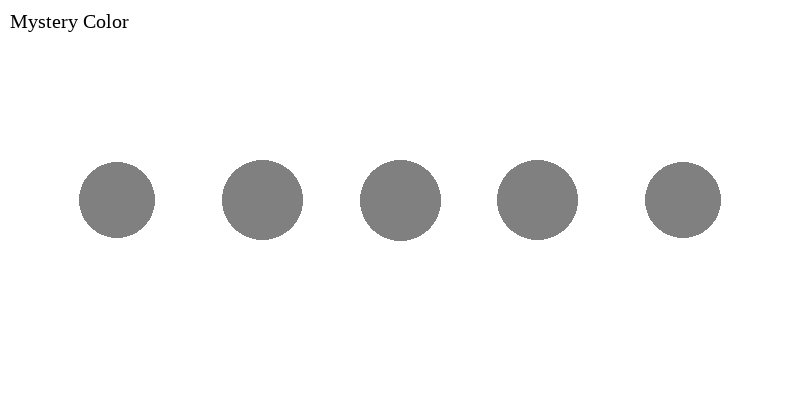
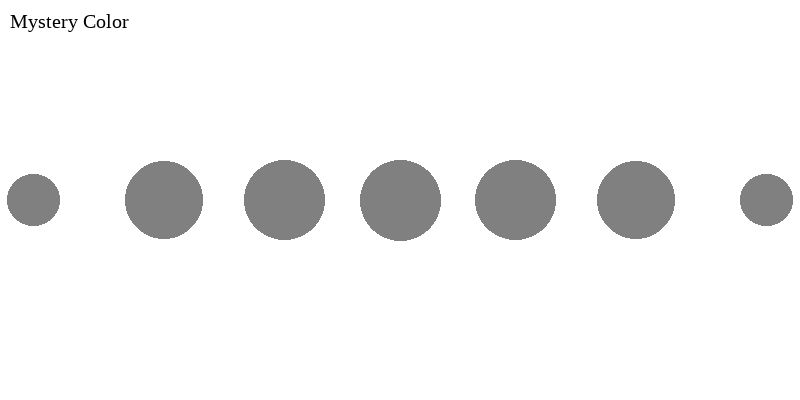
Added a blank diffraction pattern if in the incorrect room

Changed region(s): [[0.5938, 0.39, 1.0, 0.6], [0.0, 0.39, 0.4062, 0.6]]

diff --git a/main.py b/main.py
@@ -3,7 +3,7 @@ from pygame.locals import *
 
 
 from parameters import *
-from fnaf_cam import Fnaf_cam, ballBoy, diffpattmystery, colordiff
+from fnaf_cam import Fnaf_cam, ballBoy, diffpattmystery, colordiff, blankpattern
 from roombuilder import roomBuidler
 from room import Room
 from textbox import *
@@ -28,6 +28,7 @@ lens = Fnaf_cam()
 lensLight = ballBoy()
 mysterydiff = diffpattmystery()
 colorsdiff = colordiff()
+blankdiff = blankpattern()
 
 
 rooms = []
@@ -136,10 +137,12 @@ class Player(pygame.sprite.Sprite):
                 lensLight.toggle()
             self.state = "lens" if self.state == "room" else "room"
         if popup == "diffraction":
-            if self.current_room == 2:
+            if self.current_room == 2 and blankdiff.shown == False:
                 mysterydiff.toggle()
                 if colorsdiff.shown == True and mysterydiff.shown == False:
                     colorsdiff.toggle()
+            else:
+                blankdiff.toggle()
             self.state = "diffraction" if self.state == "room" else "room"
         if popup == "diffchange":
             if mysterydiff.shown == True and self.current_room == 2:
@@ -170,7 +173,7 @@ while True:
                 if event.key == K_f:
                     P1.state_toggle("lens" , K_f)
                     # print("f was pressed")
-                if event.key == K_g and P1.current_room == 2:
+                if event.key == K_g:
                     P1.state_toggle("diffraction", K_g)
                 if event.key == K_RIGHT:
                     P1.state_toggle("diffchange", K_RIGHT)
@@ -202,6 +205,7 @@ while True:
     lens.draw(DISPLAYSURF)
     mysterydiff.draw(DISPLAYSURF)
     colorsdiff.draw(DISPLAYSURF)
+    blankdiff.draw(DISPLAYSURF)
     if lens.shown==1:
         DISPLAYSURF.blit(SETTEXT('Angle of resolution = '+str(P1.angle)+' 10^-11 degrees', WHITE), (SCREEN_WIDTH/2-100, SCREEN_HEIGHT-80))
         DISPLAYSURF.blit(SETTEXT('Measured wavelength = '+str(equations.wavelength(P1.angle, P1.diameter))+' nm', WHITE), (SCREEN_WIDTH/2-100, SCREEN_HEIGHT-60))

diff --git a/fnaf_cam.py b/fnaf_cam.py
@@ -94,7 +94,7 @@ class diffpattmystery(pygame.sprite.Sprite):
         self.image = pygame.image.load("diffimg/mysterywavelength.png")
 
         self.image.convert_alpha
-        self.image.set_alpha(90)
+        self.image.set_alpha(255)
         self.rect = self.image.get_rect()
         self.rect.center = (SCREEN_WIDTH/2, SCREEN_HEIGHT/2)
         self.shown = False
@@ -116,11 +116,23 @@ class colordiff(pygame.sprite.Sprite):
     def imgchange(self, color):
         self.image = pygame.image.load("diffimg/"+color+".png")
         self.image.convert_alpha
-        self.image.set_alpha(80)
+        self.image.set_alpha(100)
     def toggle(self):
         print("toggle color patterns")
         self.shown = not self.shown
     def draw(self, surface):
         if (self.shown == 1):
             surface.blit(self.image, self.rect)
-        
+class blankpattern(pygame.sprite.Sprite):
+    def __init__(self):
+        super().__init__() 
+        self.image = pygame.image.load("diffimg/blank.png")
+        self.rect = self.image.get_rect()
+        self.rect.center = (SCREEN_WIDTH/2, SCREEN_HEIGHT/2)
+        self.shown = False
+    def toggle(self):
+        print("toggle blank patterns")
+        self.shown = not self.shown
+    def draw(self, surface):
+        if (self.shown == 1):
+            surface.blit(self.image, self.rect)
